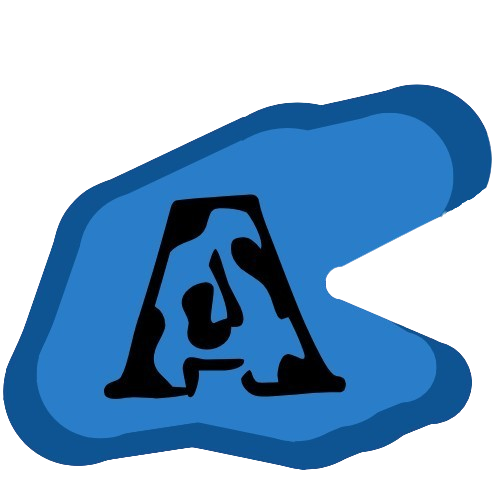
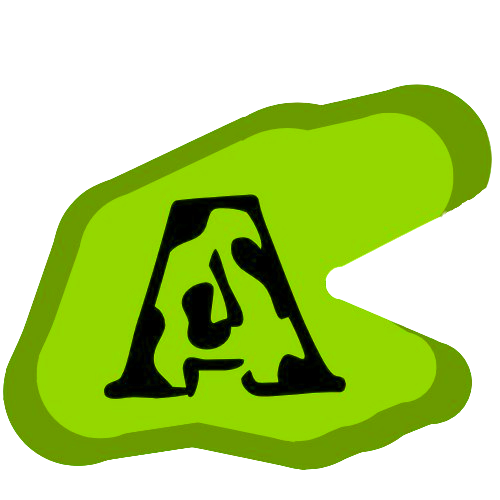
farger på bilder, navbar, og hele nettisen

diff --git a/style/style.css b/style/style.css
@@ -51,7 +51,7 @@ nav {
 
 
 .card2 {
-    background-color: rgb(111, 163, 161);
+    background-color: #97C706;
     border-radius: 8px;
     overflow: hidden;
     width: 25rem;
@@ -69,12 +69,12 @@ nav {
     font-size: 1em;
     margin: 0 0 10px;
     line-height: normal;
-    color: #ffffff;
+    color: #000000;
 }
 
 .card-text {
     font-size: 1em;
-    color: #ffffff;
+    color: #000000;
 }
 
 #text {
@@ -92,7 +92,7 @@ nav {
     width: 100%; /* Setter bredden til 100% */
     height: 11vh; /* Høyden tilpasses innholdet */
     top: 0;
-    background-color: rgb(111, 163, 161);
+    background-color: #97C706;
     position: fixed; /* Fester navigasjonslinjen til toppen av vinduet */
 }
 .logo-container {
@@ -101,14 +101,14 @@ nav {
     align-items: center;
     justify-content: center;
     align-self: center;
-    background-image: linear-gradient(to top, rgb(33, 182, 241) 0%, rgb(255, 255, 255) 100%); /* Setter gradientbakgrunn */
+    background-image: linear-gradient(to top, rgb(255, 255, 255) 0%, rgb(0, 0, 0) 100%); /* Setter gradientbakgrunn */
     background-size: 100%; /* Setter bakgrunnsstørrelse */
     background-clip: text; /* Klipper bakgrunnen til teksten */
     color: transparent;
 }
 /* Stil for logoen i navigasjonslinjen */
 #navbar__logo {
-    background-image: linear-gradient(to top, rgb(186, 235, 255) 0%, rgb(255, 255, 255) 100%); /* Setter gradientbakgrunn */
+    background-image: linear-gradient(to top, #6700A2 0%, #000 100%); /* Setter gradientbakgrunn */
     background-size: 100%; /* Setter bakgrunnsstørrelse */
     background-clip: text; /* Klipper bakgrunnen til teksten */
     color: transparent;
@@ -119,7 +119,7 @@ nav {
 }
 /* Stil for lenkene i navigasjonsmenyen */
 .navbar__links {
-    color: rgb(0, 179, 255); /* Setter tekstfarge */
+    color: #6700A2; /* Setter tekstfarge */
     display: flex; /* Bruker flexbox for layout */
     align-items: center; /* Sentrerer innholdet vertikalt */
     justify-content: center; /* Sentrerer innholdet horisontalt */
@@ -134,7 +134,7 @@ nav {
     align-self: center;
 }
 .navbar__textSize {
-    color: rgb(255, 255, 255); /* Setter tekstfarge */
+    color: #6700A2; /* Setter tekstfarge */
     display: flex; /* Bruker flexbox for layout */
     align-items: center; /* Sentrerer innholdet vertikalt */
     justify-content: center; /* Sentrerer innholdet horisontalt */
@@ -161,8 +161,8 @@ nav {
     border: none; /* Fjerner kantlinje */
     outline: none; /* Fjerner fokusramme */
     border-radius: 10px 0; /* Runding av hjørnene */
-    background: rgb(198, 238, 255); /* Setter bakgrunnsfarge */
-    color: rgb(0, 0, 0); /* Setter tekstfarge */
+    background: #6700A2; /* Setter bakgrunnsfarge */
+    color: #FFF; /* Setter tekstfarge */
 }
 /* Stil for knappen når musen er over den */
 .button2:hover {
@@ -176,7 +176,7 @@ nav {
 }
 /* Grunnleggende stil for body */
 body {
-    background-color: rgb(111, 163, 161); /* Setter bakgrunnsfarge */
+    background-color: #97C706; /* Setter bakgrunnsfarge */
     min-height: fit-content; /* Setter minimum høyde til innholdets høyde */
     max-height: 100%; /* Setter maksimal høyde */
     min-width: fit-content; /* Setter minimum bredde til innholdets bredde */
@@ -199,7 +199,7 @@ main {
     justify-content: center;
     margin: 10px; /* Legger til margin rundt main-elementet */
     height: auto; /* Høyden tilpasses innholdet */
-    background-color: rgb(233, 254, 255); /* Setter bakgrunnsfarge til hvit */
+    background-color: rgb(230, 255, 232); /* Setter bakgrunnsfarge til hvit */
     z-index: 0; /* Setter z-indeksen for lagdeling */
     width: calc(100% - 60px); /* Setter bredden til 100% */
     max-height: 1500px; /* Setter maksimal høyde */
@@ -250,10 +250,10 @@ main {
     align-items: center;
     justify-content: center;
     flex-wrap: wrap;
-    box-shadow: inset 20px 20px 20px rgba(0,0,0,0.05),
+    box-shadow: inset 20px 20px 20px rgba(0, 0, 0, 0.05),
                 25px 35px 20px rgba(0,0,0,0.05),
                 25px 20px 20px rgba(0, 0, 0, 0.05),
-                inset 25px 30px 30px rgba(255, 255, 255, 0.9);
+                inset 25px 30px 30px rgb(235, 235, 235);
     animation: slide 3s linear;
 }
 .container .drop:nth-child(1){
@@ -268,7 +268,7 @@ main {
     position: absolute;
     width: 35px;
     height: 35px;
-    background-color: #ffffffc8;
+    background-color: #f8f8f8c8;
     top: 50px;
     left: 80px;
     border-radius: 50%;
@@ -279,7 +279,7 @@ main {
     position: absolute;
     width: 15px;
     height: 15px;
-    background-color: #ffffffc8;
+    background-color: #f8f8f8c8;
     top: 90px;
     left: 110px;
     border-radius: 50%;
@@ -307,7 +307,7 @@ main {
     font-size: 2em;
     color: var(--clr);
     box-shadow: inset 2px 5px 10px rgba(0,0,0,0.1),
-                inset -2px -5px 10px rgba(255,255,255,1),
+                inset -2px -5px 10px rgb(144, 144, 144),
                 15px 15px 10px rgba(0,0,0,0.05),
                 15px 10px 15px rgba(0,0,0,0.25);
 }
@@ -316,8 +316,8 @@ main {
     padding: 10px 20px;
     background-color: var(--clr);
     border-radius: 20px;
-    color: #fff;
-    text-shadow: 2px 5px 5px rgba(255,255,255,0.5);
+    color: #000000;
+    text-shadow: 2px 5px 5px rgba(236, 236, 236, 0.5);
     cursor: pointer;
     transition: background-color 0.5s, color 0.5s;
     box-shadow: inset 2px 5px 10px rgba(0,0,0,0.1),
@@ -326,7 +326,7 @@ main {
                 10px 10px 5px rgba(0,0,0,0.25);
 }
 .container .drop .content a:hover{
-    background-color: #fff;
+    background-color: #000000;
     color: var(--clr);
 }
 
@@ -347,8 +347,8 @@ main {
 /* Stil for overskrifter */
 .overskrifter {
     font-size: 3rem; /* Setter fontstørrelse til 3rem */
-    background-color: aliceblue; /* Setter bakgrunnsfarge til aliceblue */
-    background-image: linear-gradient(to top, rgb(0, 195, 255) 0%, rgb(0, 0, 0) 70%); /* Setter gradientbakgrunn */
+    background-color: #FFF; /* Setter bakgrunnsfarge til hvit */
+    background-image: linear-gradient(to top, #97C706 0%, rgb(0, 0, 0) 70%); /* Setter gradientbakgrunn */
     background-size: 100%; /* Setter bakgrunnsstørrelse */
     background-clip: text; /* Klipper bakgrunnen til teksten */
     color: transparent; /* Gjør teksten gjennomsiktig for gradienten */

diff --git a/index.html b/index.html
@@ -20,7 +20,7 @@
     <meta name="theme-color" content="#ffff">
 
     <!-- Tittel på nettsiden som vises i nettleserfanen -->
-    <title>Adea's Nettside | Hjem side | Basis informasjon om entrepenøren </title>
+    <title>Adea's Nettside  Hjem side | Basis informasjon om entrepenøren</title> 
     <!-- Kobler til en ekstern CSS-stilark for ekstra styling -->
     <link rel="stylesheet" href="style/style.css">
     <link rel="stylesheet" href="kontakt.html">
@@ -49,7 +49,7 @@
                 </div>
                 <!-- Logo for nettsiden -->
                 <div class="navbar__container">
-                    <md-icon-button id="usage-anchor" aria-label="Contact menu" style=".standard:hover{color:#ffffff;} .standard{color:#ffffff;}"><md-icon style="color: #ffffff;">menu</md-icon></md-icon-button>
+                    <md-icon-button id="usage-anchor" aria-label="Contact menu" style=".standard:hover{color:#000000;} .standard{color:#000000;}"><md-icon style="color: #000000;">menu</md-icon></md-icon-button>
                     <md-menu id="usage-menu" anchor="usage-anchor" positioning="fixed">
 
     
@@ -65,7 +65,7 @@
 
                     </md-menu>
                     <div class="navbar__textSize">
-                        <p style="color: #ffffff;">Text Size</p>
+                        <p style="color: #000000;">Text Size</p>
                         <div class="controls" style="display: flex; flex-direction: row;">
                             <button class="button2" onclick="changeFontSize('decrease'), changeFontL('decrease')">-</button>
                             <button class="button2" onclick="changeFontSize('increase'), changeFontL('increase')">+</button>
@@ -133,7 +133,6 @@
             }
         </script>
         </body>
-        <html>
 <main style="justify-content: space-evenly; justify-self: center; align-items: center;">
     <section class="main__content" id="main-2">
         <section>

diff --git a/prosjekt.html b/prosjekt.html
@@ -155,7 +155,7 @@
         </section>
         <section class="container">
         <section id="main__content">
-            <div class="drop" style="--clr:rgb(111, 163, 161);">
+            <div class="drop" style="--clr:#97C706;">
                 <div class="content">
                     <h2 style="font-size: 2.5rem;">1</h2>
                     <p>        Vis du vil lese mer om prosjekt gå inn på denne nettsiden</p>
